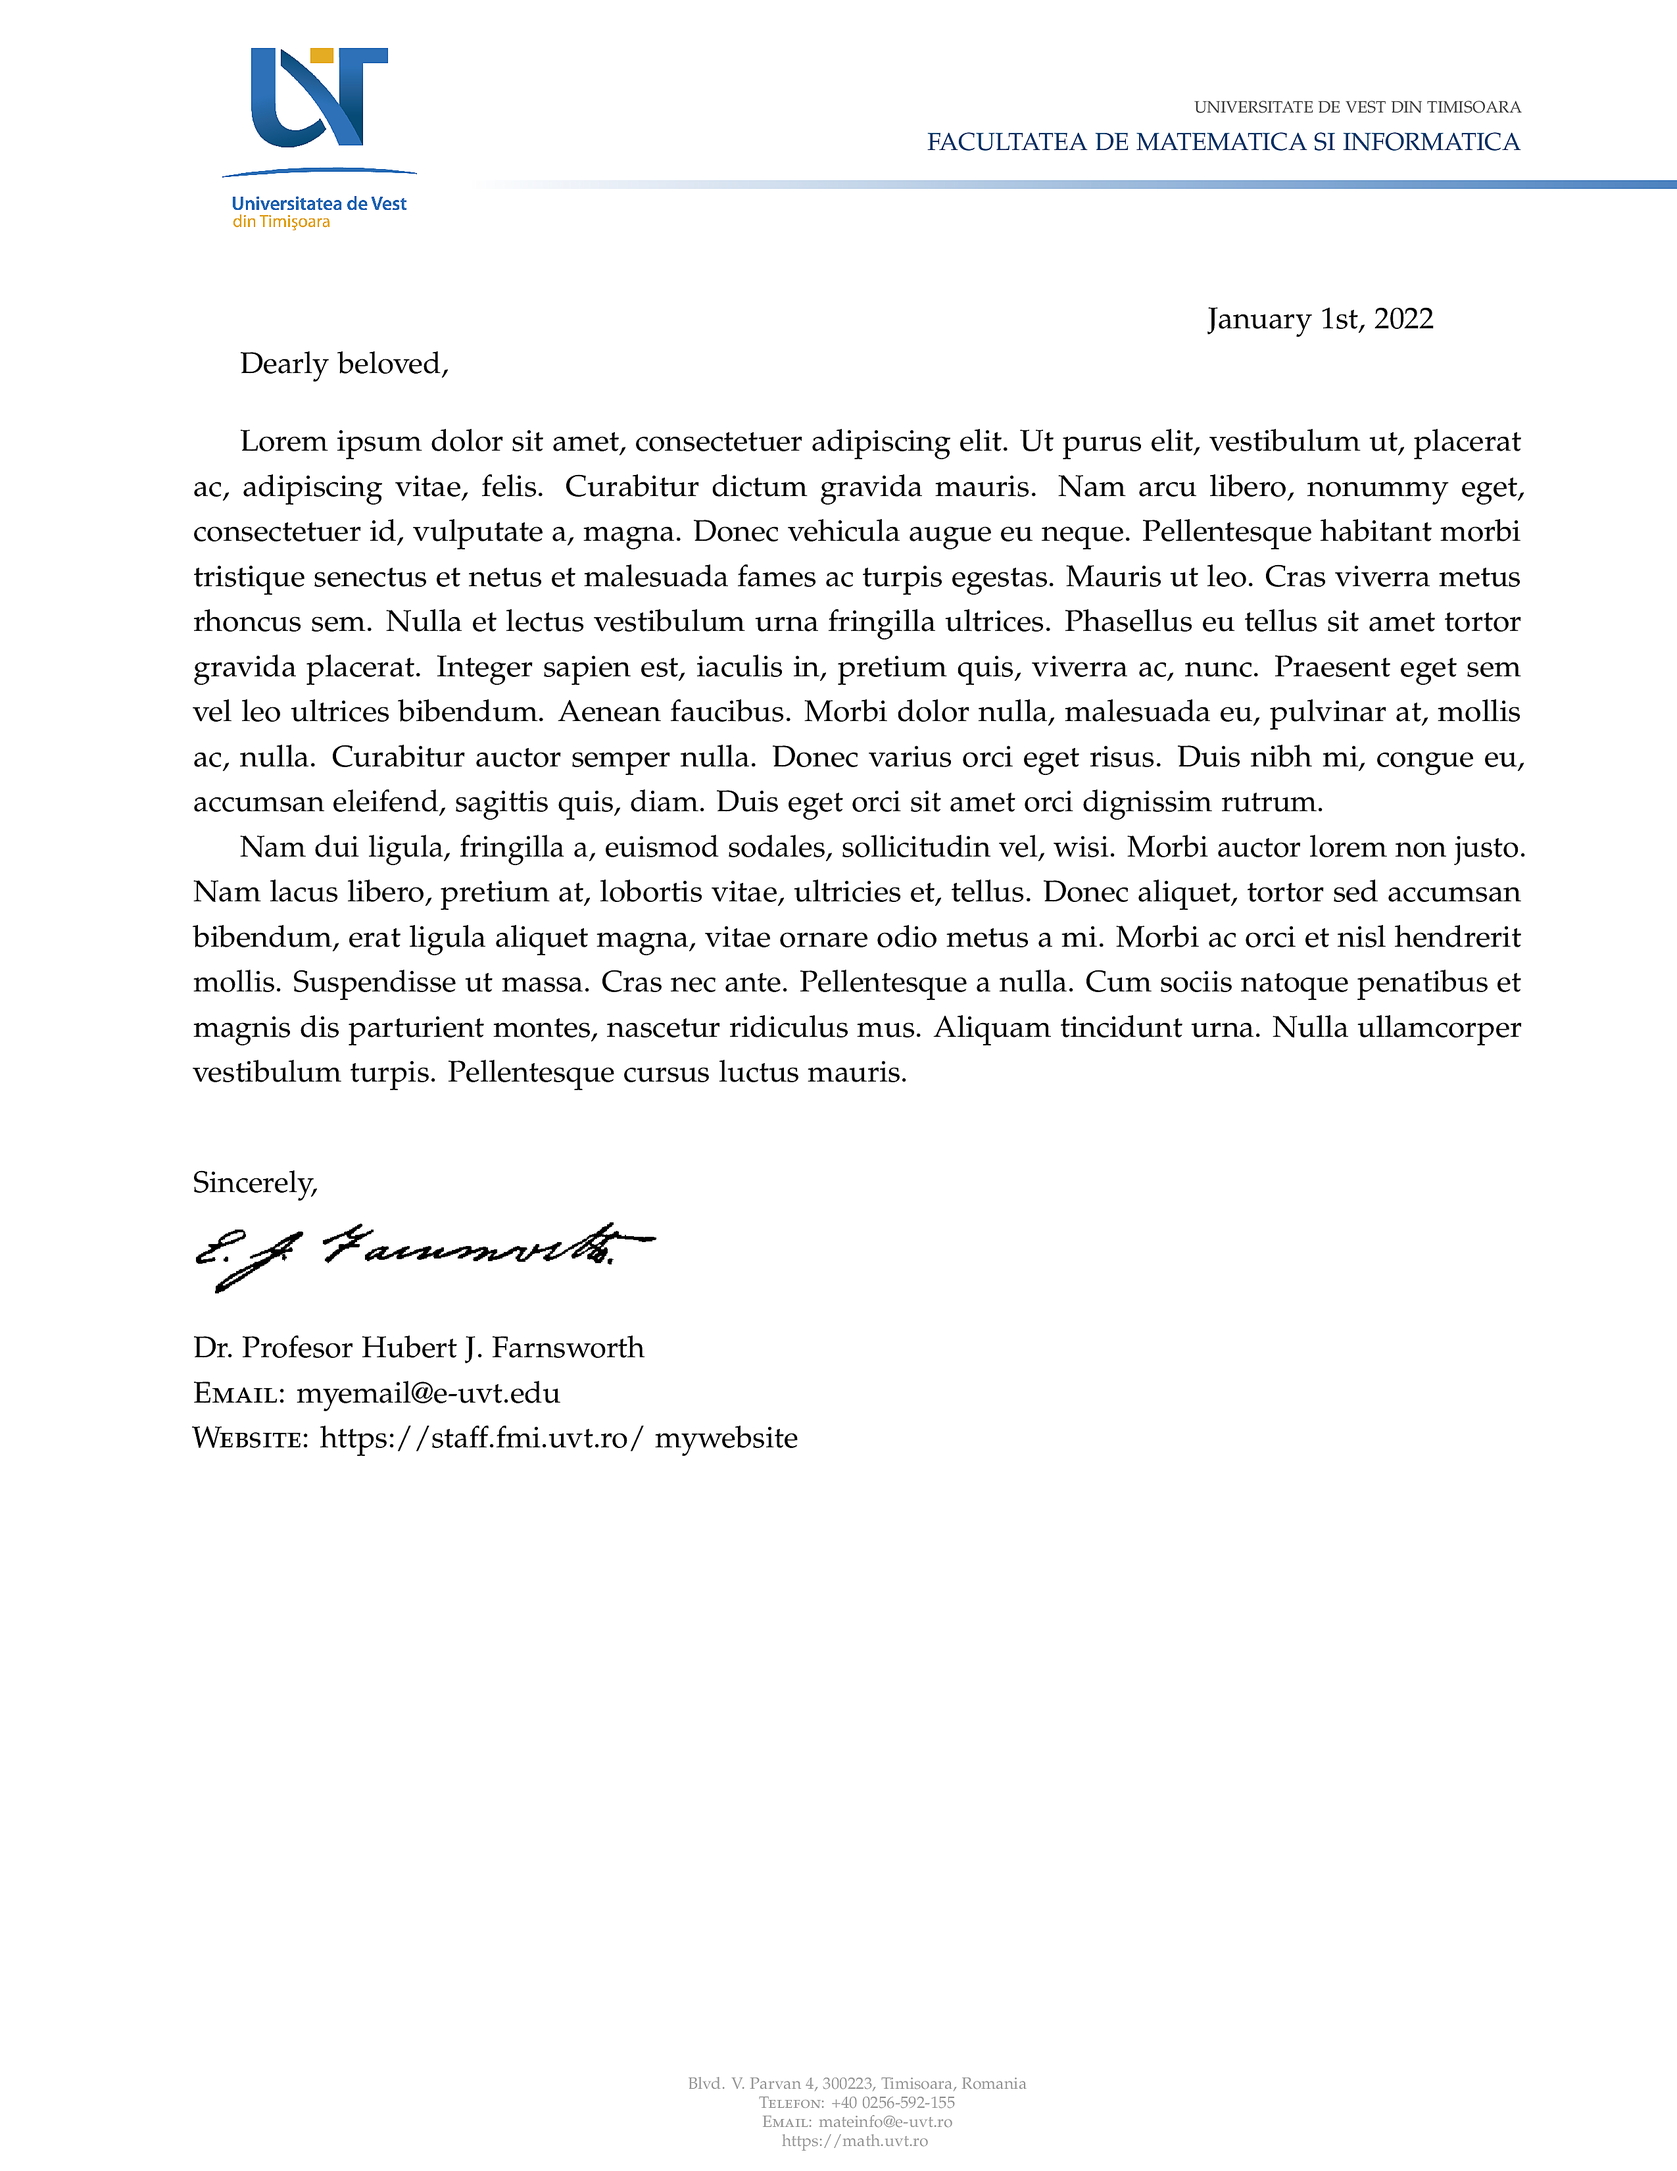
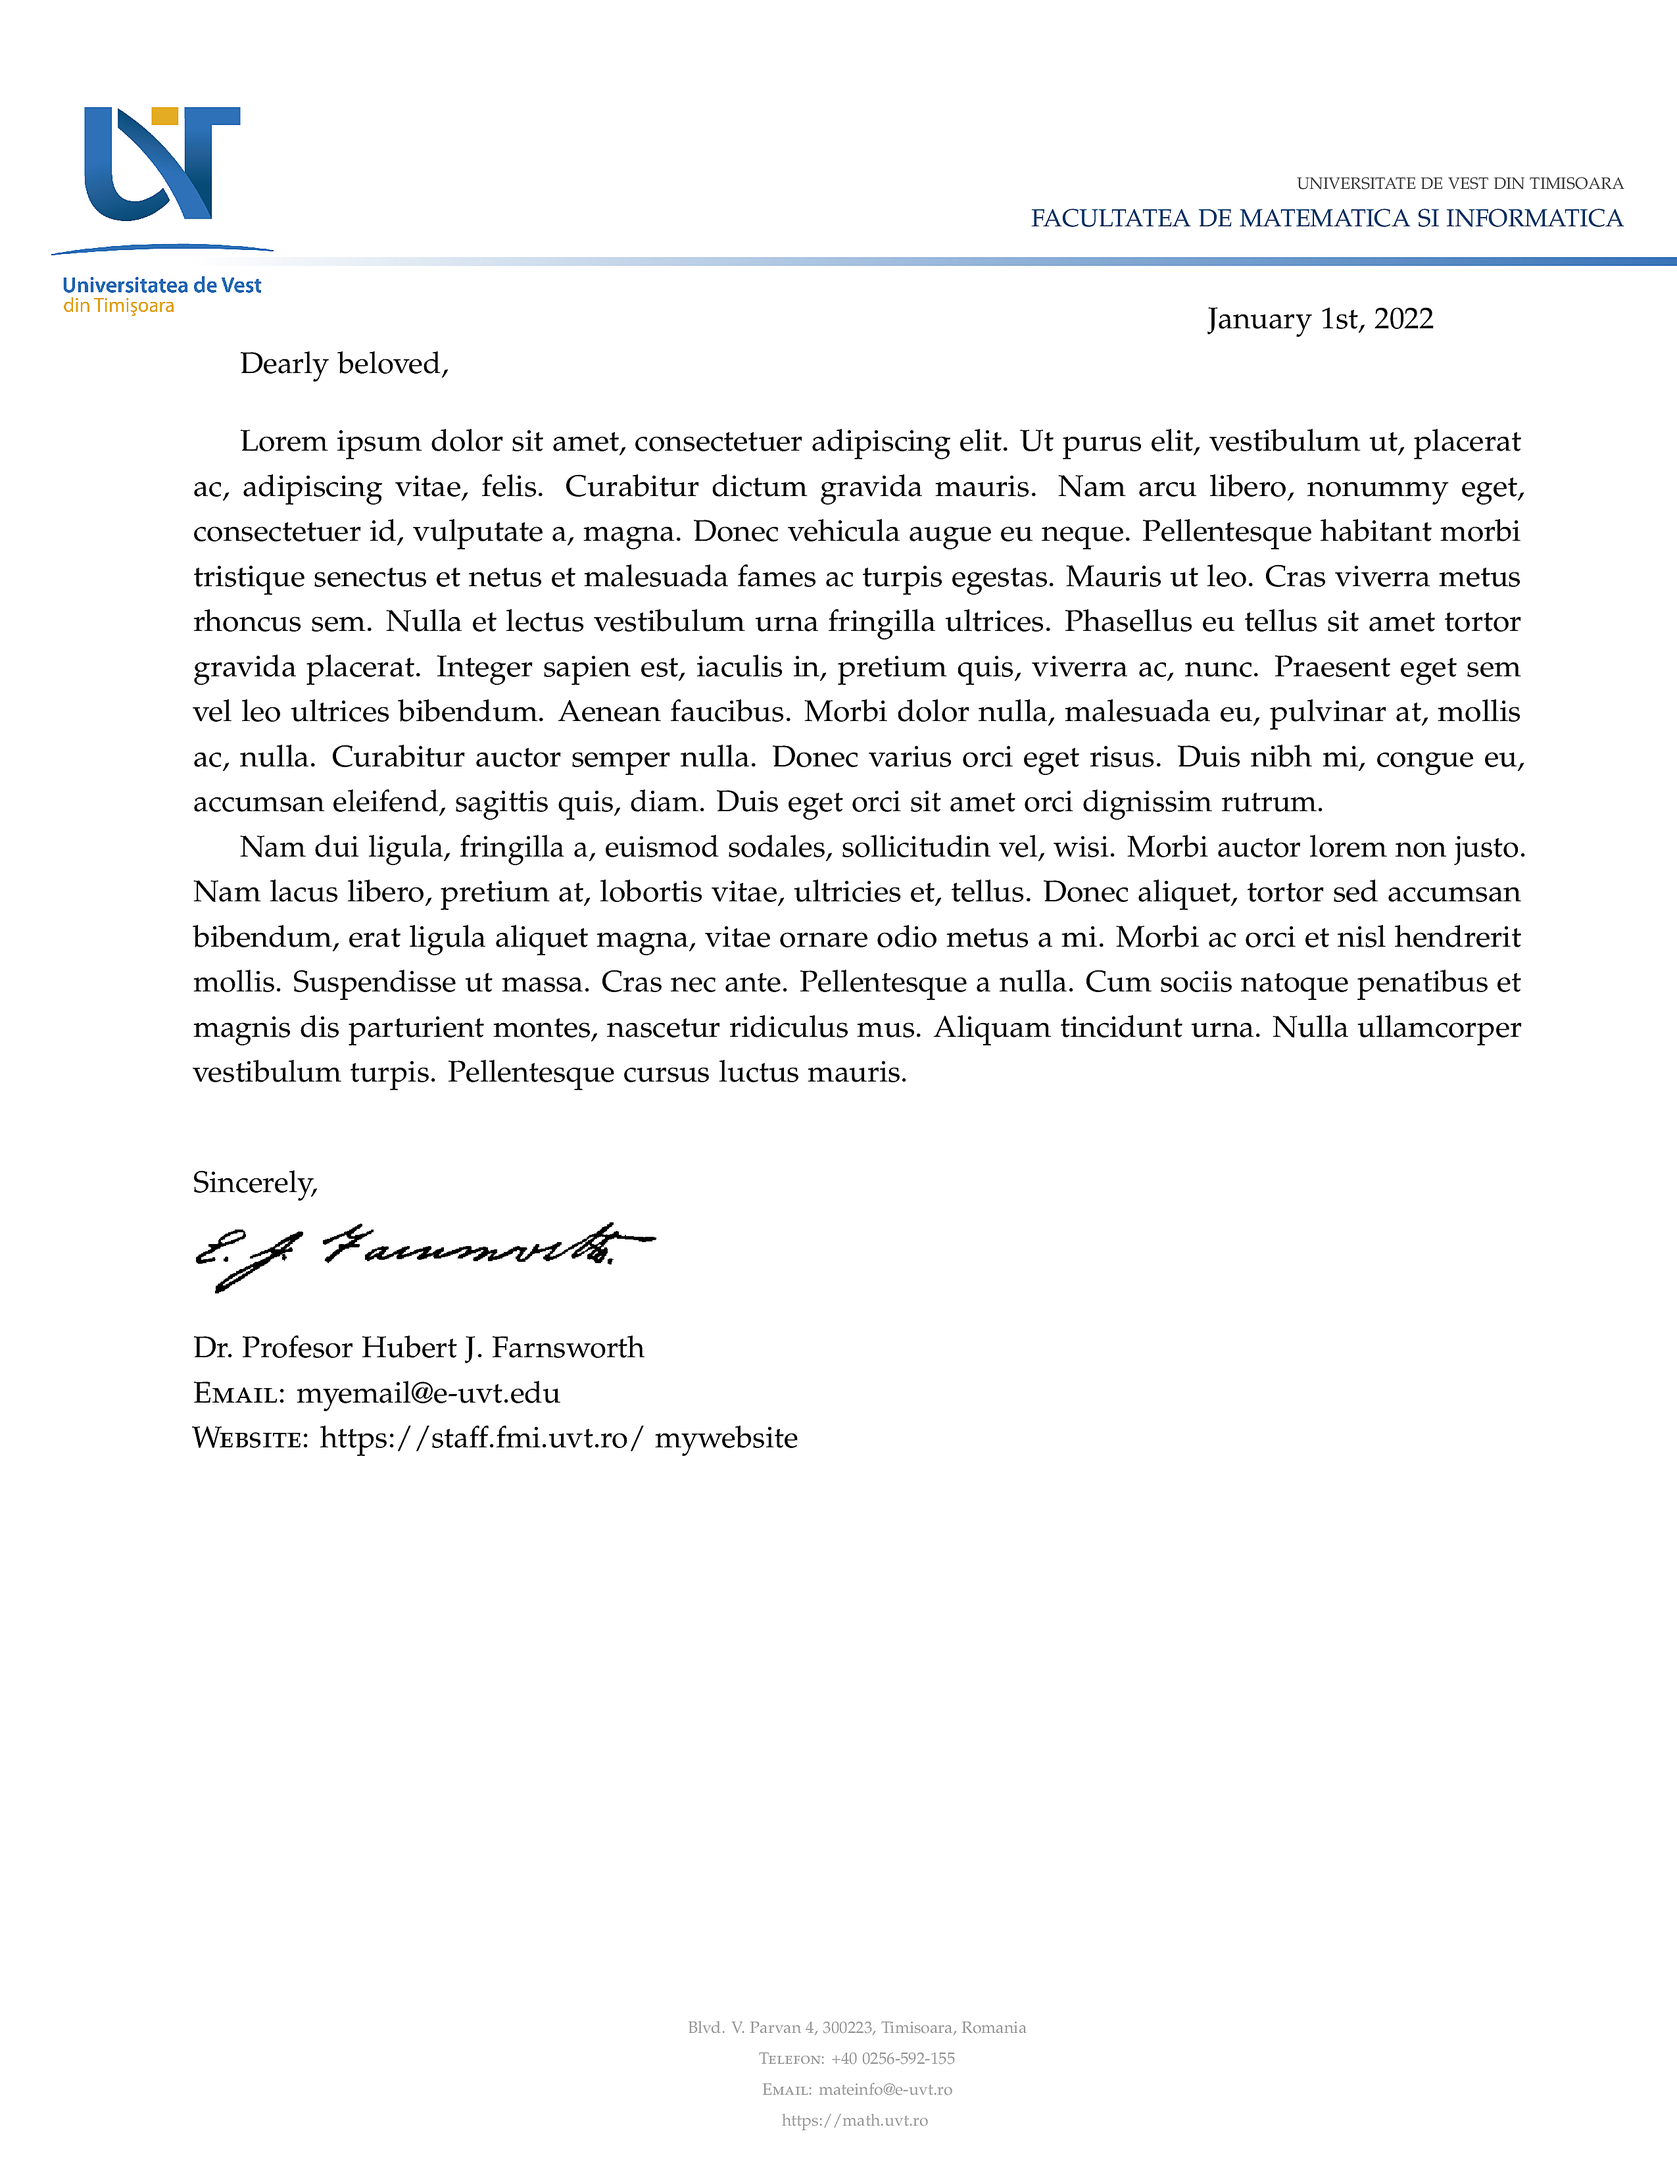
do not use layoutgrid by default

Changed region(s): [[0.2169, 0.0624, 1.0, 0.1248], [0.031, 0.0, 0.2478, 0.1561], [0.4647, 0.9364, 0.5576, 0.9988]]

diff --git a/template.tex b/template.tex
@@ -1,6 +1,6 @@
 \documentclass[11pt]{article}
 
-\usepackage[layoutgrid]{uvt-letterhead}
+\usepackage{uvt-letterhead}
 \usepackage{lipsum}
 
 % NOTE: mathpazo is a Palatino-like font
